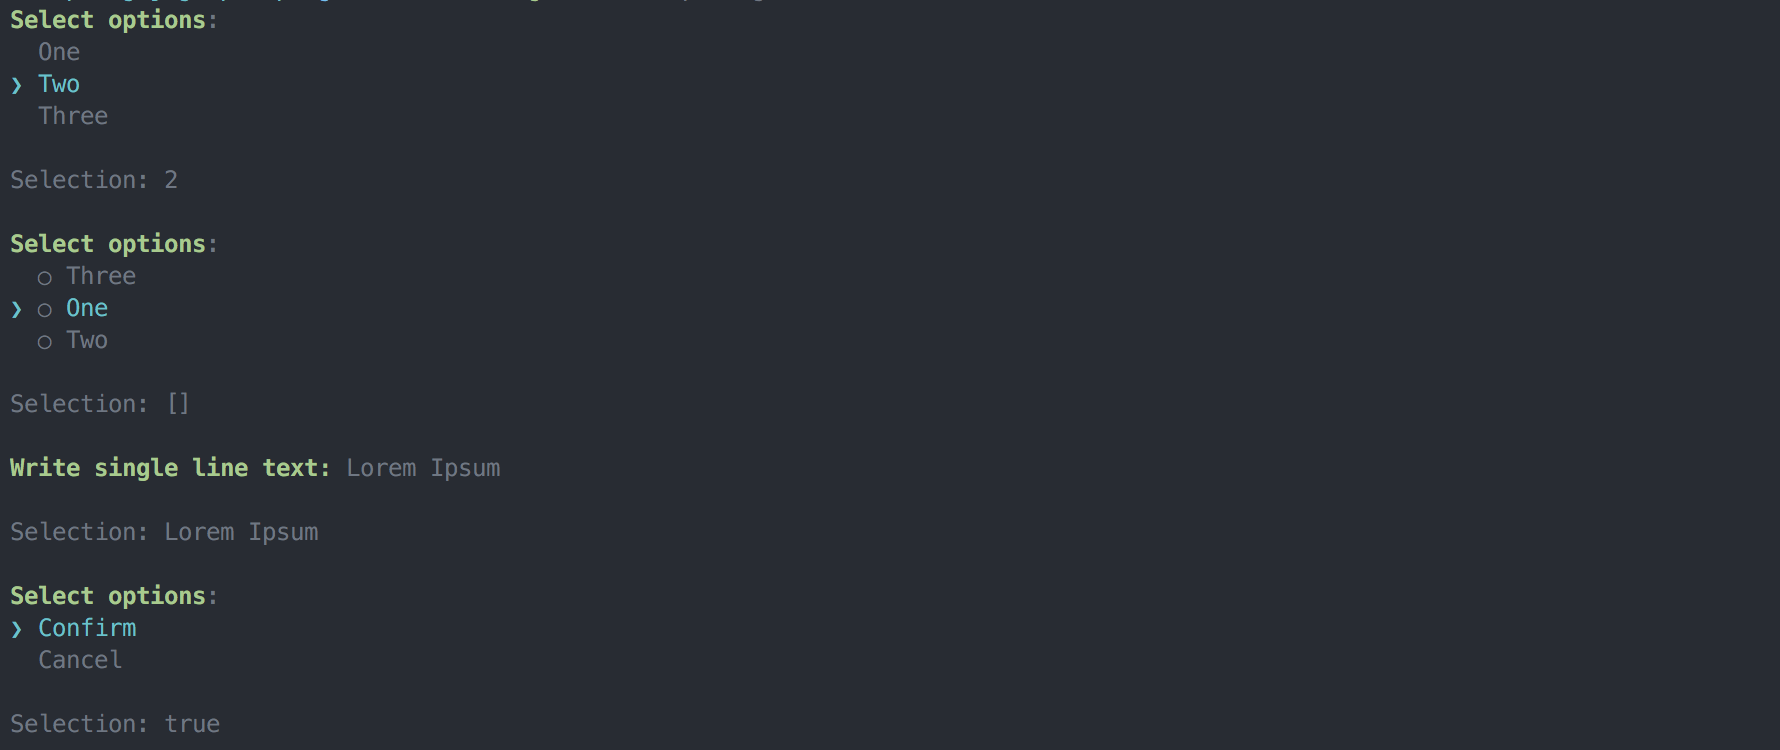
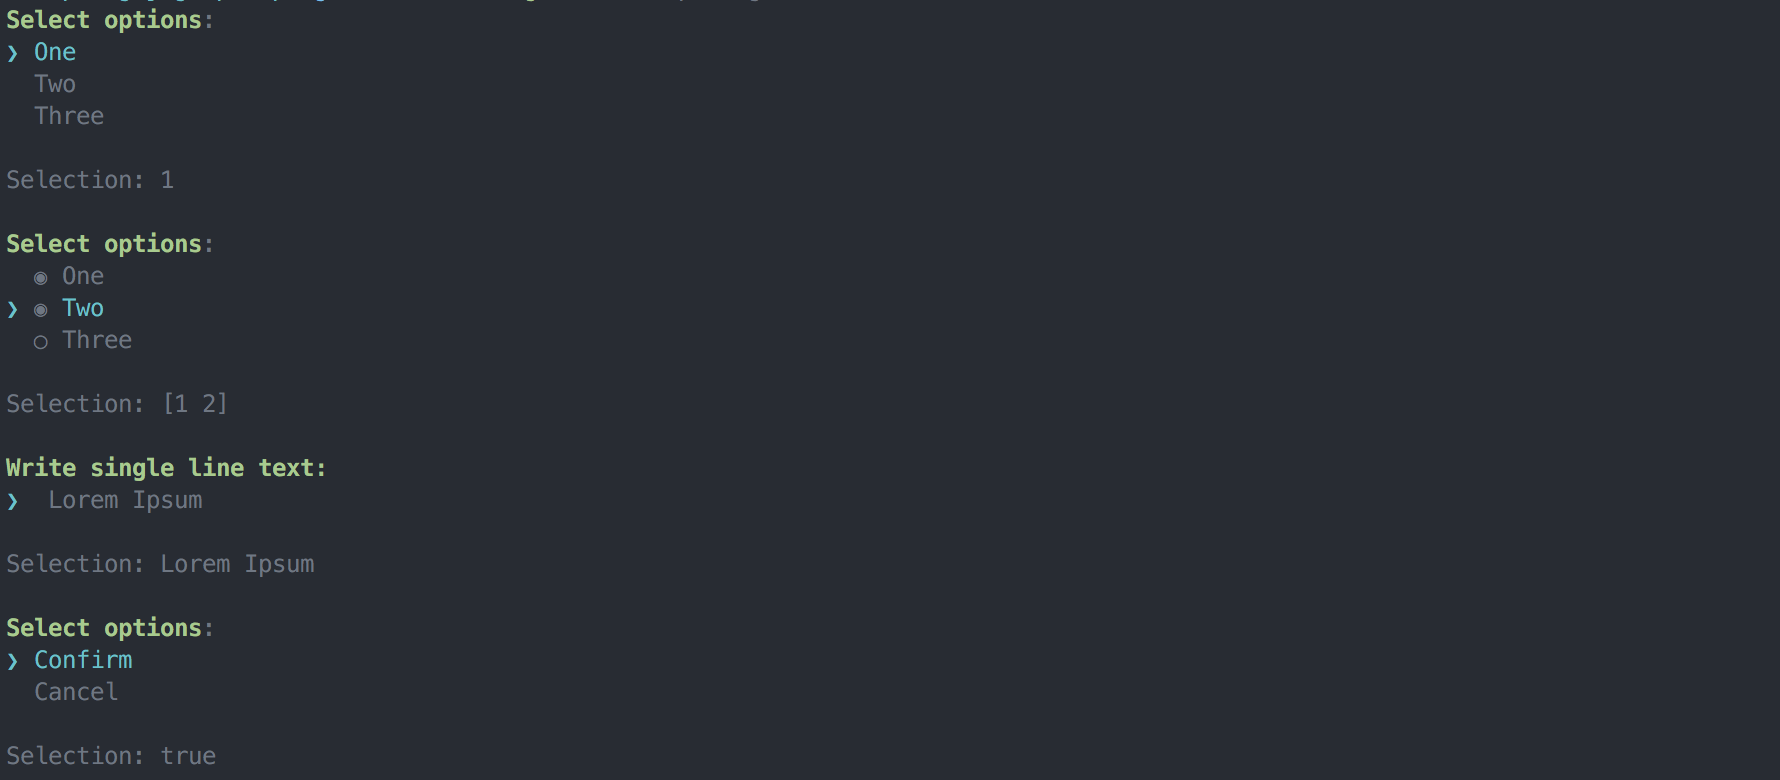
🎨  Improove input styling

diff --git a/elements/input.go b/elements/input.go
@@ -23,13 +23,17 @@ func (i *Input) Run() (value string, canceled bool) {
 	fmt.Printf("%s", goterm.Color(goterm.Bold(i.Label), goterm.GREEN))
 
 	if i.DefaultValue != "" {
-		fmt.Printf(" %s%s%s",
+		fmt.Printf(" %s%s%s ",
 			goterm.Color(goterm.Bold("["), goterm.GREEN),
 			goterm.Color(i.DefaultValue, goterm.YELLOW),
-			goterm.Color(goterm.Bold("]"), goterm.GREEN))
+			goterm.Color(goterm.Bold("]"), goterm.GREEN),
+		)
 	}
 
-	fmt.Printf("%s ", goterm.Color(goterm.Bold(":"), goterm.GREEN))
+	fmt.Printf("%s\n%s ",
+		goterm.Color(goterm.Bold(":"), goterm.GREEN),
+		goterm.Color("\u276F ", goterm.CYAN),
+	)
 
 	reader := bufio.NewReader(os.Stdin)
 	value, _ = reader.ReadString('\n')
